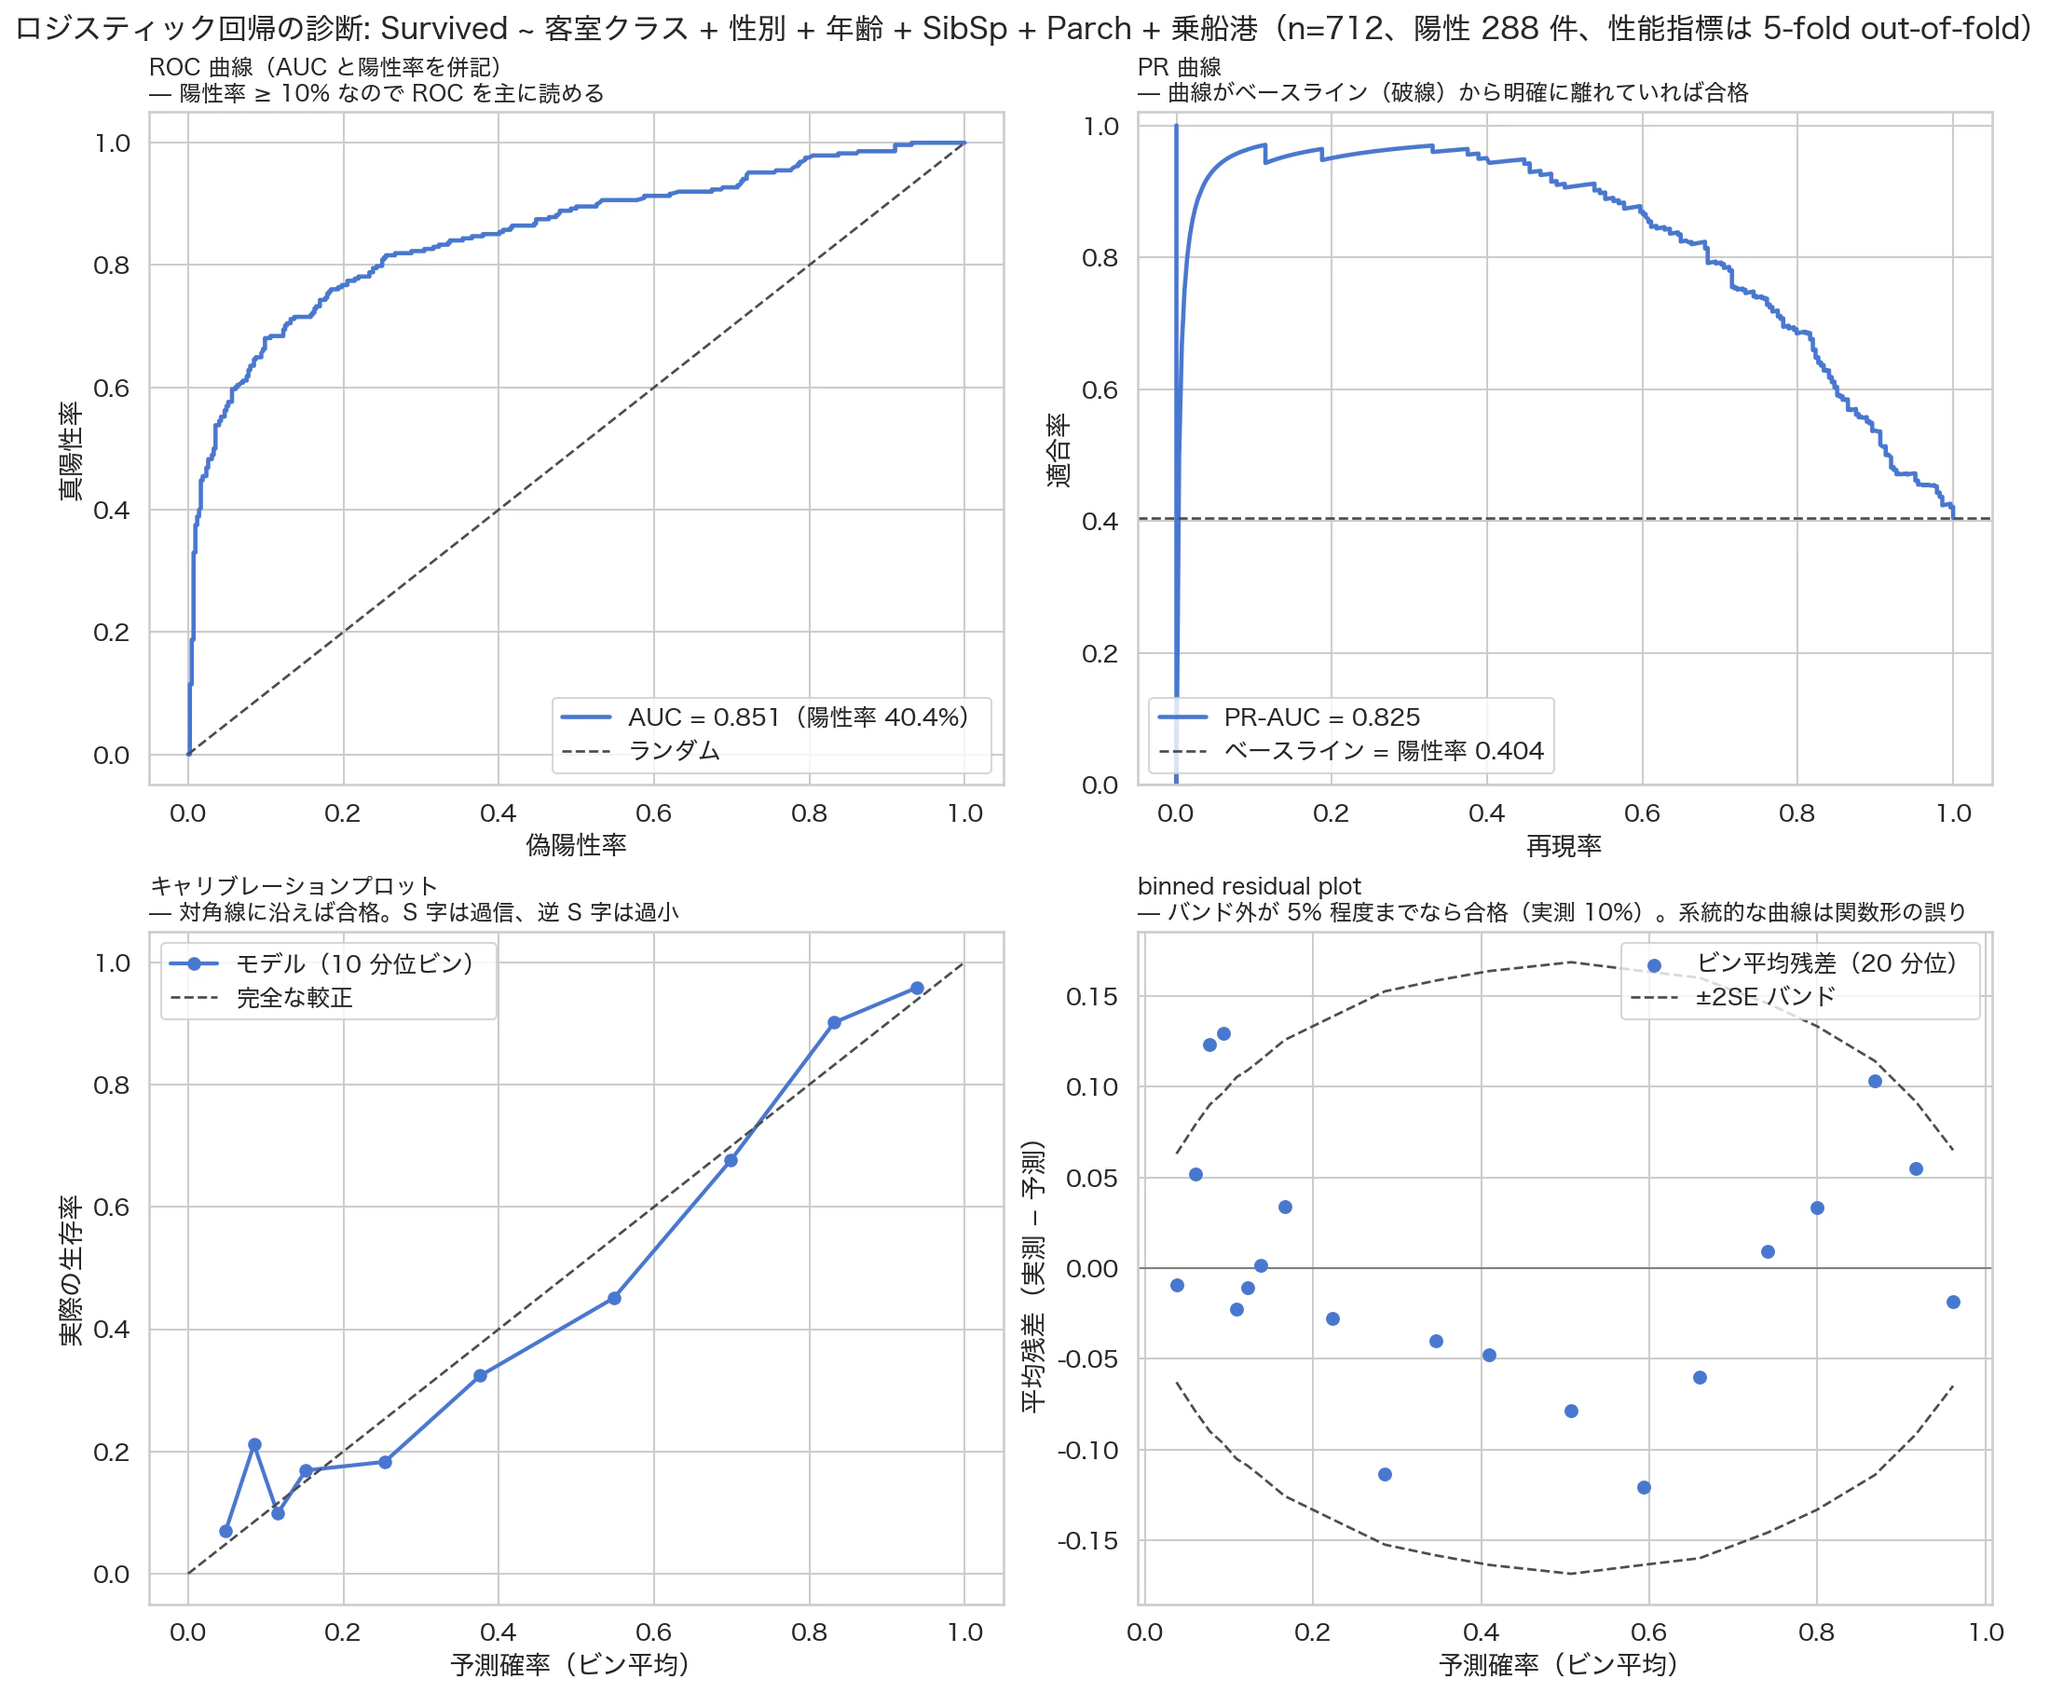
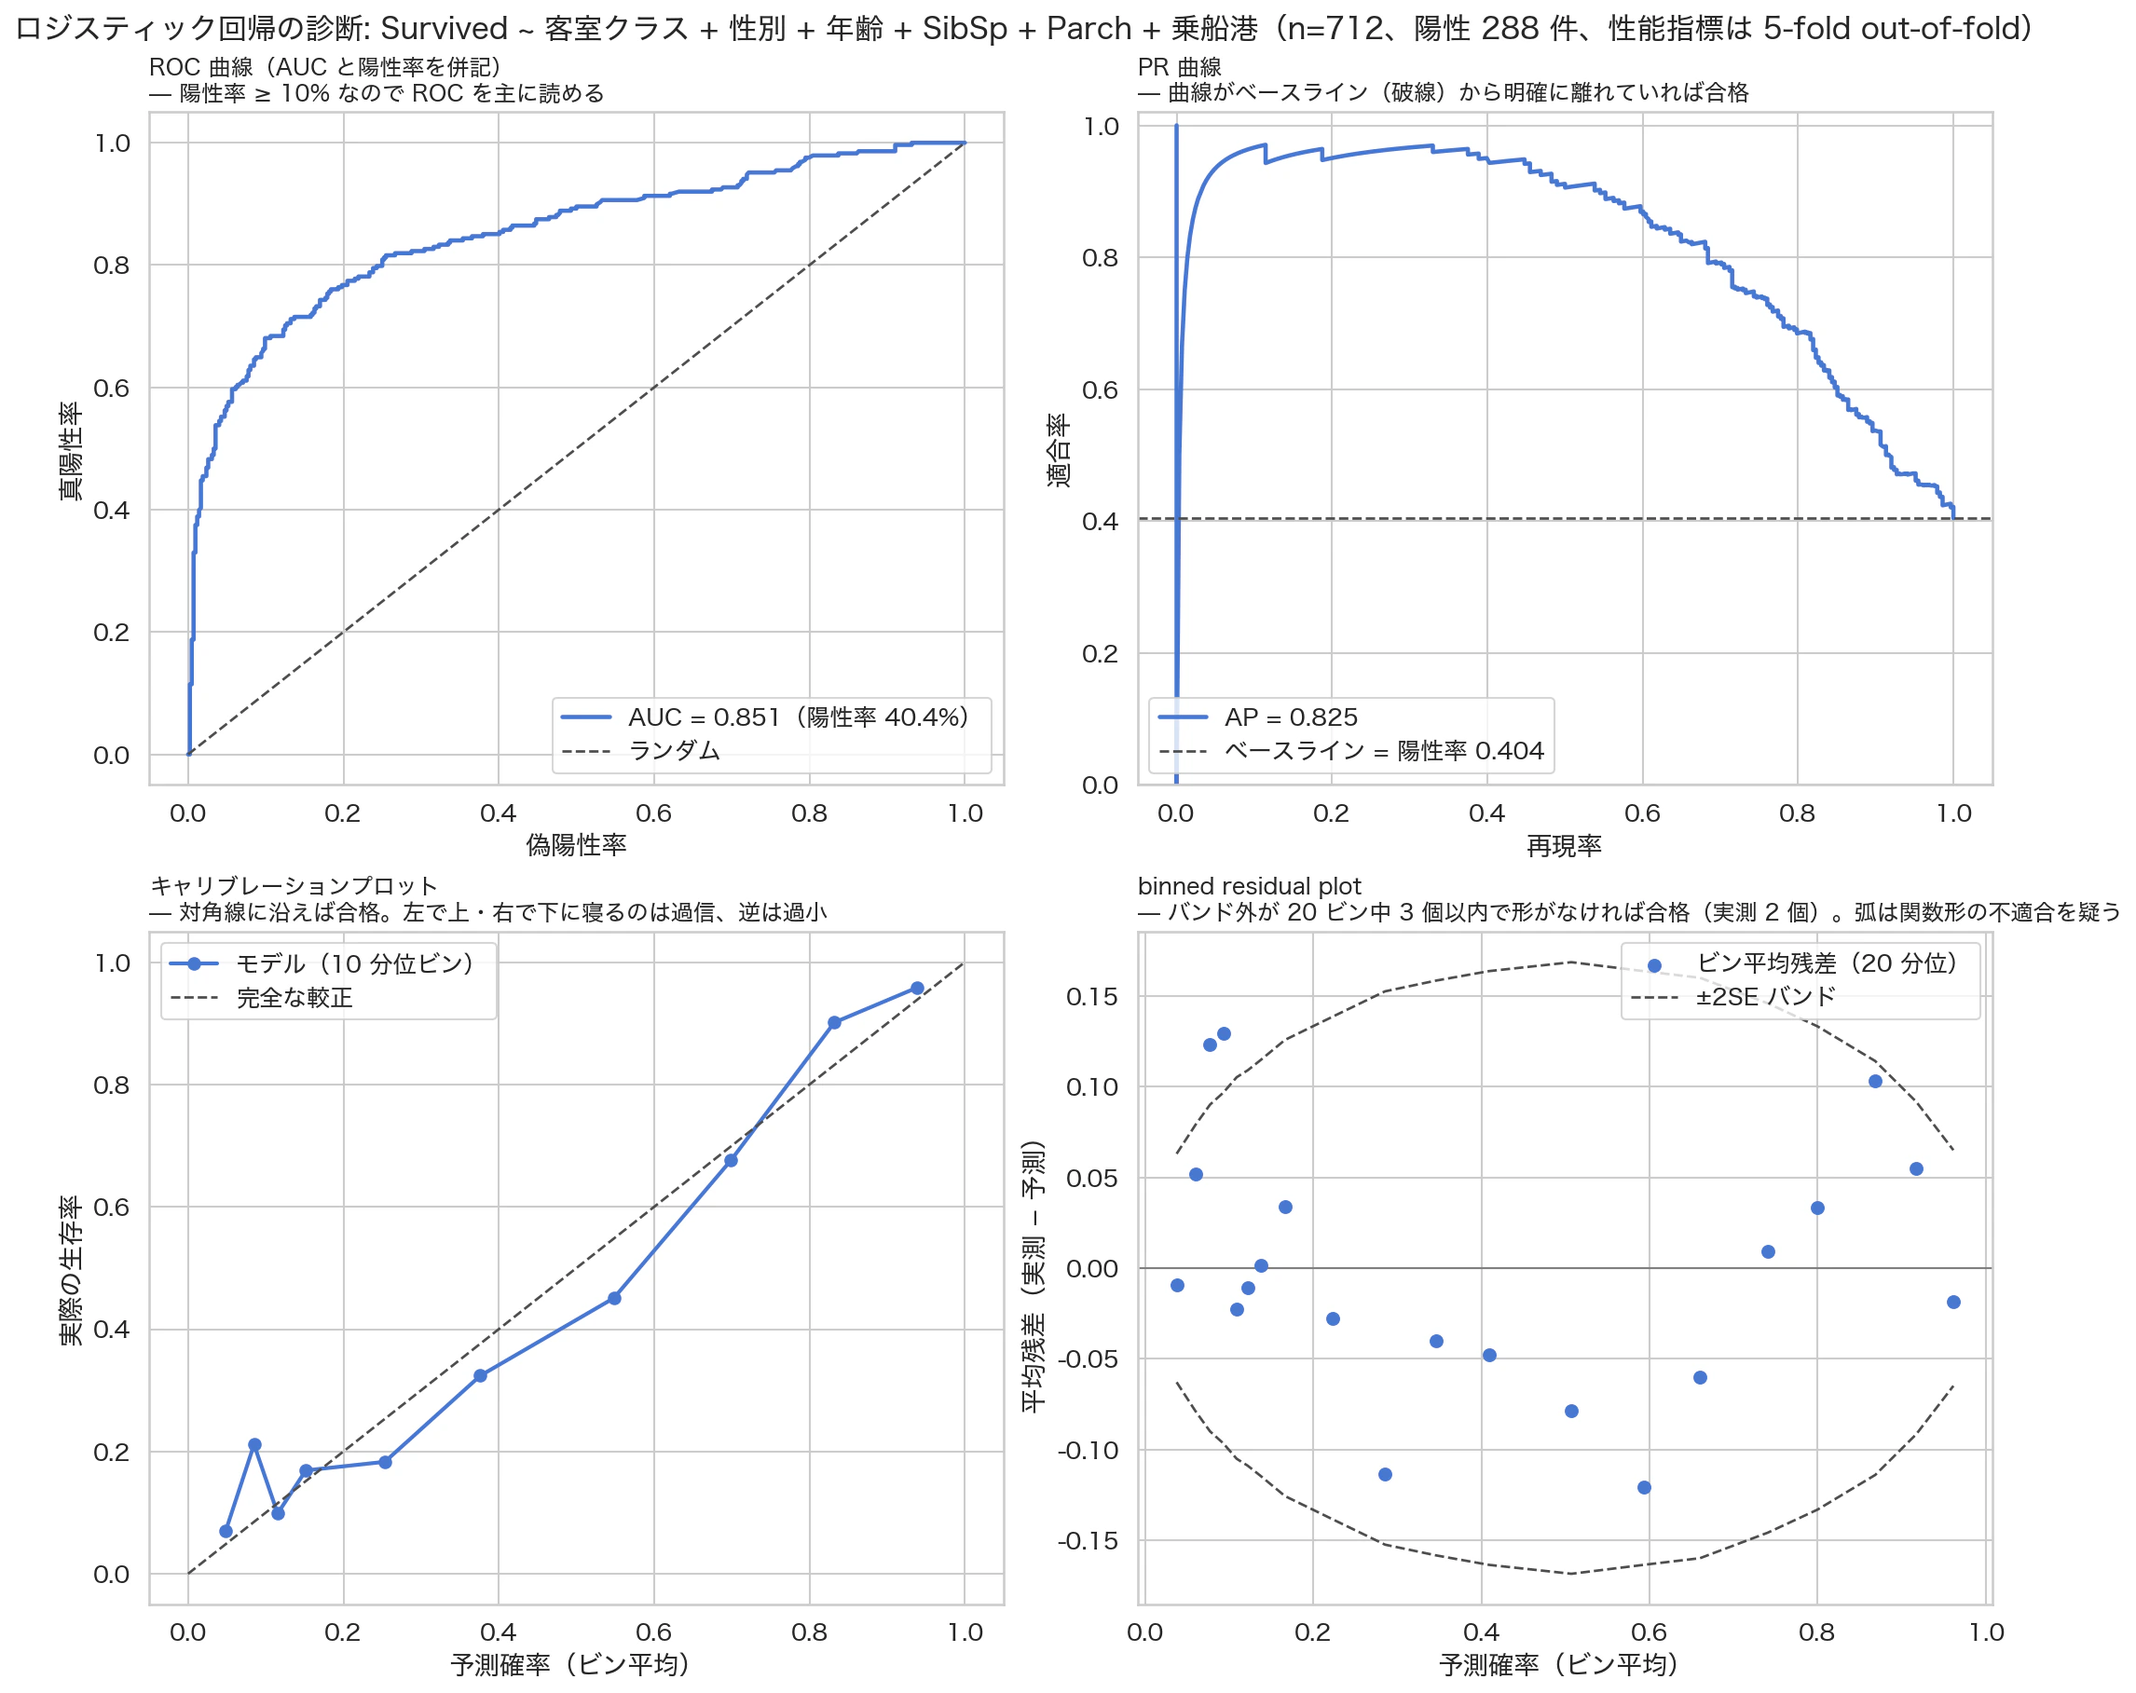
fix: skill更新にともなうギャラリーの更新

diff --git a/docs/gallery/index.html b/docs/gallery/index.html
@@ -242,7 +242,7 @@
           <figure class="fig">
             <a class="fig__frame" data-figure href="figures/glm/glm_logit_diagnostics.webp"
                data-caption="ロジスティック回帰の診断 4 パネル（n=712）">
-              <img src="figures/glm/glm_logit_diagnostics.webp" width="2214" height="1817" loading="lazy" decoding="async"
+              <img src="figures/glm/glm_logit_diagnostics.webp" width="2292" height="1817" loading="lazy" decoding="async"
                    alt="ロジスティック回帰の診断 4 パネル。ROC 曲線、PR 曲線、十分位のキャリブレーションプロット、binned residual plot">
             </a>
             <figcaption>
@@ -256,10 +256,10 @@
           <div class="verdicts">
             <p class="verdicts__title">診断サマリーから</p>
             <ul>
-              <li><span class="badge badge--ok">OK</span><span>AUC 0.851（陽性率 40.4%、n = 712、陽性 288 件、PR-AUC 0.825。5-fold out-of-fold）</span></li>
-              <li><span class="badge badge--ok">OK</span><span>Brier 0.145（ベースライン 0.241）、係数 |max| 2.64・SE max 0.56 で完全分離なし</span></li>
+              <li><span class="badge badge--ok">OK</span><span>AUC 0.851（陽性率 40.4%、n = 712、陽性 288 件、AP 0.825。5-fold out-of-fold）</span></li>
+              <li><span class="badge badge--ok">OK</span><span>Brier 0.145（ベースライン 0.241）、係数 |max| 2.64・SE max 0.56 で完全分離の疑いなし</span></li>
               <li><span class="badge badge--ok">OK</span><span>EPV 36.0（陽性 288 件 / 説明変数 8）、VIF max 1.97（Pclass_3）</span></li>
-              <li><span class="badge badge--act">要対処</span><span>binned residual が ±2SE バンド外 2/20 ビン（10%、基準 5% 程度）。低確率側で過小予測の系統的な弧<span class="v-next">年齢の非線形項や性別×客室クラスの交互作用を試す</span></span></li>
+              <li><span class="badge badge--act">要対処</span><span>binned residual が ±2SE バンド外 2/20 ビン（件数は基準 3 個以内）だが、低確率側で過小予測の系統的な弧<span class="v-next">年齢の非線形項や性別×客室クラスの交互作用を試す</span></span></li>
               <li><span class="badge badge--check">確認</span><span>キャリブレーションの最大乖離 0.126<span class="v-next">確率を使うなら学習外データで較正</span></span></li>
               <li><span class="badge badge--check">確認</span><span>閾値 0.5 で TN 363 / FP 61 / FN 82 / TP 206<span class="v-next">コストから閾値を選び直す</span></span></li>
             </ul>
@@ -342,7 +342,7 @@
             <p class="verdicts__title">診断サマリーから</p>
             <ul>
               <li><span class="badge badge--ok">OK</span><span>差の点推定 + 95% CI: 年齢 −2.28 歳 [−4.47, −0.09]、log1p(運賃) +0.66 [0.53, 0.78]</span></li>
-              <li><span class="badge badge--ok">OK</span><span>効果量 + CI: 最大は運賃 d = +0.72 [0.57, 0.87]。他は小さい効果の範囲</span></li>
+              <li><span class="badge badge--ok">OK</span><span>効果量 + CI: 最大は運賃 d = +0.72 [0.57, 0.87]。仮置きの |d| = 0.2 を明確に超えたのは運賃だけ（実務上の意味は MID を決めてから判断）</span></li>
               <li><span class="badge badge--ok">OK</span><span>p 値は出していない。等分散検定で手法を選ばず最初から Welch</span></li>
               <li><span class="badge badge--check">確認</span><span>最小重要差（MID）が未定義<span class="v-next">意思決定に使うならドメイン側で定義</span></span></li>
             </ul>
@@ -880,7 +880,7 @@
           <div class="verdicts">
             <p class="verdicts__title">診断サマリーから</p>
             <ul>
-              <li><span class="badge badge--act">要対処</span><span>推定値 +1.67 [+1.47, +2.59]。生存確率の差なので範囲外<span class="v-next">効果は報告しない</span></span></li>
+              <li><span class="badge badge--act">要対処</span><span>推定値 +1.67 [+1.47, +2.59]。閾値近傍 7 人の局所線形で効果として読めず、13 歳で処置割当が変わる根拠もない<span class="v-next">効果は報告しない</span></span></li>
               <li><span class="badge badge--act">要対処</span><span>閾値近傍 n = 4 / 3（目安は両側 ≥ 20）、共変量の跳びが 0/4 変数で推定不能</span></li>
               <li><span class="badge badge--act">要対処</span><span>プラセボ閾値 25 歳で跳びあり（−0.195 [−0.275, −0.107]）</span></li>
               <li><span class="badge badge--ok">OK</span><span>密度検定 p = 0.99、局所線形（p = 1）+ MSE 最適バンド幅 + 三角カーネル</span></li>
